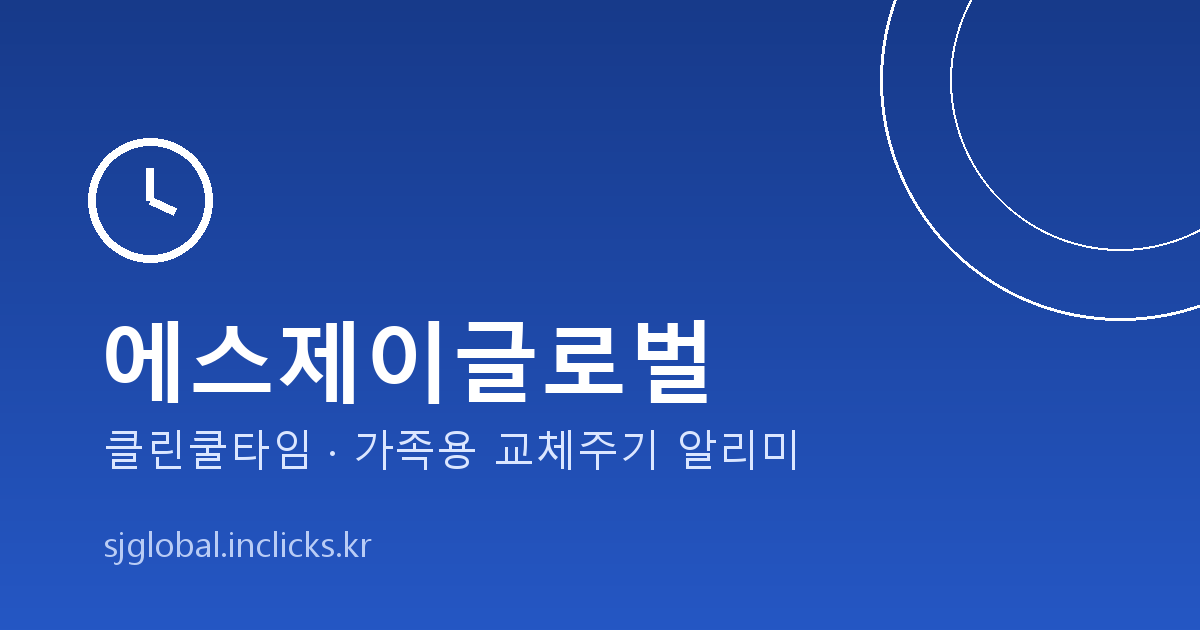
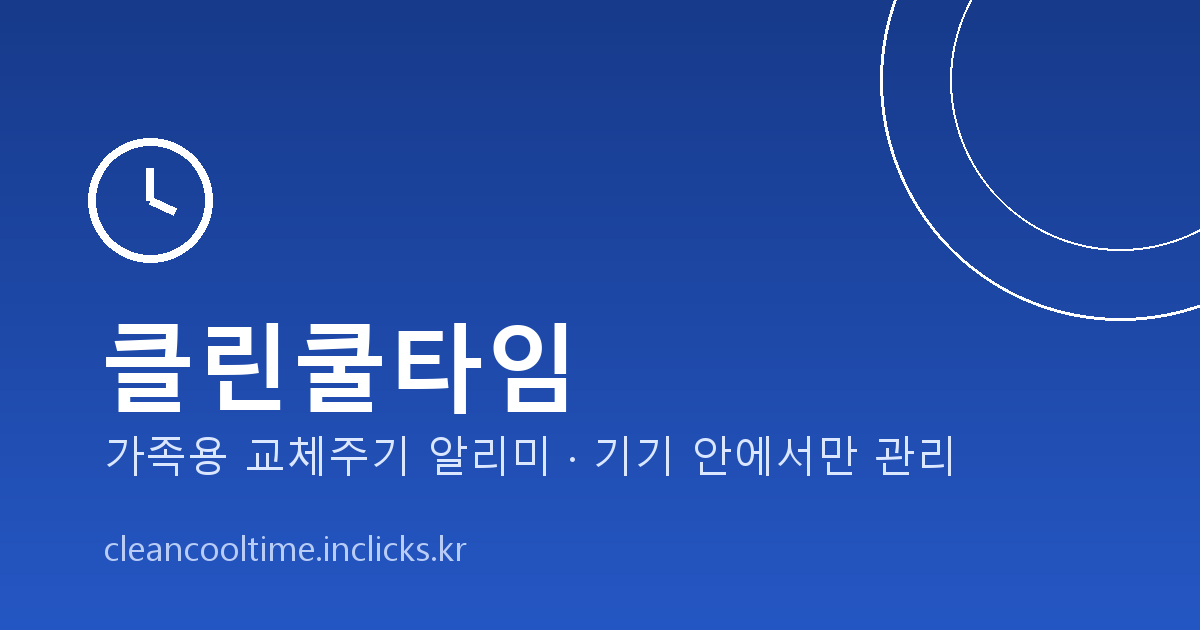
브랜드를 클린쿨타임으로 통일 + 도메인 cleancooltime.inclicks.kr
- 사이트 전반의 에스제이글로벌 브랜드 제거(개인 개발자 게시라 회사 브랜드 불필요)
- 개발자=개인 개발자 송승재로 표기 일원화(헤더/푸터/개발자 카드/처리방침 §11)
- 도메인 sjglobal.inclicks.kr -> cleancooltime.inclicks.kr (CNAME, 모든 절대 URL, sitemap, robots, README)
- OG 공유 이미지 클린쿨타임 + 새 도메인으로 재생성
- 처리방침 §11에 1인 운영 회신 약속 1줄 추가(보호책임자 연락처 보완)

Changed region(s): [[0.0617, 0.5127, 0.8017, 0.754], [0.0925, 0.8444, 0.4008, 0.9048]]

diff --git a/index.html b/index.html
@@ -3,19 +3,19 @@
 <head>
 <meta charset="UTF-8" />
 <meta name="viewport" content="width=device-width, initial-scale=1.0, viewport-fit=cover" />
-<title>에스제이글로벌 · 클린쿨타임</title>
-<meta name="description" content="에스제이글로벌은 일상의 작은 불편을 덜어주는 생활 편의 앱을 만듭니다. 첫 앱 클린쿨타임은 칫솔·수건·필터 등 교체주기를 기기 안에서만 관리하는 가정용 유틸리티 앱입니다." />
-<link rel="canonical" href="https://sjglobal.inclicks.kr/index.html" />
-<link rel="icon" href="https://sjglobal.inclicks.kr/favicon.ico" sizes="any" />
-<link rel="icon" type="image/png" href="https://sjglobal.inclicks.kr/icons/icon-192.png" />
-<link rel="apple-touch-icon" href="https://sjglobal.inclicks.kr/icons/icon-192.png" />
+<title>클린쿨타임</title>
+<meta name="description" content="클린쿨타임은 칫솔·수건·필터 등 교체주기가 있는 생활용품을 기기 안에서만 관리하는 가정용 유틸리티 앱입니다. 1인 개발자가 만든 무료 앱으로, 이용자가 입력한 정보를 외부로 보내지 않습니다." />
+<link rel="canonical" href="https://cleancooltime.inclicks.kr/index.html" />
+<link rel="icon" href="https://cleancooltime.inclicks.kr/favicon.ico" sizes="any" />
+<link rel="icon" type="image/png" href="https://cleancooltime.inclicks.kr/icons/icon-192.png" />
+<link rel="apple-touch-icon" href="https://cleancooltime.inclicks.kr/icons/icon-192.png" />
 <meta name="theme-color" media="(prefers-color-scheme: light)" content="#f4f6f9" />
 <meta name="theme-color" media="(prefers-color-scheme: dark)" content="#14161b" />
-<meta property="og:title" content="에스제이글로벌 · 클린쿨타임" />
+<meta property="og:title" content="클린쿨타임" />
 <meta property="og:description" content="꼭 필요한 일을, 사용자 입장에서, 정직하게. 클린쿨타임은 이용자가 입력한 데이터를 기기 안에만 저장합니다." />
 <meta property="og:type" content="website" />
-<meta property="og:url" content="https://sjglobal.inclicks.kr/index.html" />
-<meta property="og:image" content="https://sjglobal.inclicks.kr/og-image.png" />
+<meta property="og:url" content="https://cleancooltime.inclicks.kr/index.html" />
+<meta property="og:image" content="https://cleancooltime.inclicks.kr/og-image.png" />
 <meta property="og:image:width" content="1200" />
 <meta property="og:image:height" content="630" />
 <meta name="twitter:card" content="summary_large_image" />
@@ -154,9 +154,9 @@
 
 <header class="site">
   <div class="wrap navbar">
-    <a class="brand" href="#top" aria-label="에스제이글로벌 홈">
+    <a class="brand" href="#top" aria-label="클린쿨타임 홈">
       <span class="dot" aria-hidden="true"></span>
-      에스제이글로벌
+      클린쿨타임
     </a>
     <nav class="anchors" aria-label="페이지 내비게이션">
       <a href="#top">소개</a>
@@ -171,7 +171,7 @@
 
   <section class="hero" aria-label="소개">
     <div class="wrap">
-      <p class="eyebrow">에스제이글로벌</p>
+      <p class="eyebrow">클린쿨타임</p>
       <h1>일상의 작은 불편을<br />정직하게 덜어드립니다</h1>
       <p class="lead">화려한 기능보다 “꼭 필요한 일을, 사용자 입장에서, 정직하게” 해내는 것을 더 중요하게 생각하는 생활 편의 앱 제작자입니다.</p>
       <div class="cta-row">
@@ -184,15 +184,15 @@
   <section id="company">
     <div class="wrap">
       <span class="section-tag">개발자 소개</span>
-      <h2>에스제이글로벌</h2>
-      <p class="muted">에스제이글로벌은 일상의 작은 불편을 덜어주는 생활 편의 앱을 만드는 개인 개발자입니다. 우리는 화려한 기능보다 “꼭 필요한 일을, 사용자 입장에서, 정직하게” 해내는 것을 더 중요하게 생각합니다.</p>
+      <h2>클린쿨타임을 만드는 사람</h2>
+      <p class="muted">클린쿨타임은 1인 개발자가 만든 생활 편의 앱입니다. 화려한 기능보다 “꼭 필요한 일을, 사용자 입장에서, 정직하게” 해내는 것을 더 중요하게 생각하며 만들었습니다.</p>
 
-      <h3>우리가 추구하는 가치</h3>
+      <h3>개발하며 지키는 원칙</h3>
       <div class="values">
         <div class="value-card">
           <span class="num" aria-hidden="true">1</span>
           <h4>사용자 데이터 존중</h4>
-          <p>꼭 필요한 정보만 다루고, 가능하면 사용자의 기기 안에만 머무르도록 설계합니다. 첫 앱 ‘클린쿨타임’은 이용자가 입력한 정보를 외부 서버에 저장하지 않고 오직 사용자 기기 안에만 보관합니다.</p>
+          <p>꼭 필요한 정보만 다루고, 가능하면 사용자의 기기 안에만 머무르도록 설계합니다. ‘클린쿨타임’은 이용자가 입력한 정보를 외부 서버에 저장하지 않고 오직 사용자 기기 안에만 보관합니다.</p>
         </div>
         <div class="value-card">
           <span class="num" aria-hidden="true">2</span>
@@ -209,10 +209,10 @@
       <h3>개발자 정보</h3>
       <div class="info-card">
         <dl>
-          <dt>개발자</dt><dd>에스제이글로벌</dd>
-          <dt>운영자</dt><dd>송승재 (개인 개발자)</dd>
+          <dt>개발자</dt><dd>송승재 (개인 개발자)</dd>
+          <dt>앱</dt><dd>클린쿨타임</dd>
           <dt>문의 이메일</dt><dd><a href="mailto:[email redacted]">[email redacted]</a></dd>
-          <dt>홈페이지</dt><dd><a href="https://sjglobal.inclicks.kr">sjglobal.inclicks.kr</a></dd>
+          <dt>홈페이지</dt><dd><a href="https://cleancooltime.inclicks.kr">cleancooltime.inclicks.kr</a></dd>
         </dl>
       </div>
     </div>
@@ -220,7 +220,7 @@
 
   <section id="app">
     <div class="wrap">
-      <span class="section-tag">우리의 첫 앱</span>
+      <span class="section-tag">앱 소개</span>
       <div class="app-hero">
         <div class="app-badge" aria-hidden="true">
           <svg viewBox="0 0 24 24" fill="none" stroke="#fff" stroke-width="2" stroke-linecap="round" stroke-linejoin="round"><circle cx="12" cy="12" r="9"/><path d="M12 7v5l3 2"/></svg>
@@ -266,17 +266,17 @@
       <div class="priv-summary">
         <ul>
           <li>이용자가 입력한 정보는 <strong>오직 이용자 기기 안의 로컬 저장소(IndexedDB)에만</strong> 저장되며, 외부 서버로 전송·수집하지 않습니다.</li>
-          <li><strong>회원가입·로그인이 없고</strong>, 개발자(에스제이글로벌)나 제3자에게 전달되는 입력 정보가 없습니다.</li>
+          <li><strong>회원가입·로그인이 없고</strong>, 개발자나 제3자에게 전달되는 입력 정보가 없습니다.</li>
           <li><span lang="en">Google Analytics</span> 등 분석 도구, 광고 식별자·광고 SDK·추적 기능을 <strong>사용하지 않습니다.</strong></li>
           <li>알림은 모두 기기 안에서 로컬로 예약·발송되며 서버 푸시를 쓰지 않습니다. 글꼴·라이브러리가 앱에 모두 포함되어 있어 앱이 자동으로 외부 서버에 접속하지 않으며, 외부 통신은 이용자가 ‘장보기’의 쿠팡 링크를 직접 누를 때에만 일어납니다.</li>
           <li>‘장보기’의 쿠팡 링크는 사용자가 직접 누를 때 쿠팡으로 이동하는 제휴 추적 링크이며(쿠팡 파트너스 제휴), 앱이 개인정보를 쿠팡에 능동적으로 전송하지 않습니다.</li>
           <li>‘전체 초기화’ 또는 앱 삭제로 데이터를 영구 삭제할 수 있고, JSON으로 백업·복원할 수 있습니다.</li>
           <li>특정 연령층, 특히 아동을 대상으로 하지 않는 일반 가정용 앱입니다.</li>
         </ul>
-        <p class="summary-note">※ 본 요약은 안내용이며, 효력은 개인정보처리방침 <strong>전문</strong>이 우선합니다. Google Play에 등록된 처리방침 URL은 전문 페이지(<span lang="en">https://sjglobal.inclicks.kr/privacy.html</span>)입니다.</p>
+        <p class="summary-note">※ 본 요약은 안내용이며, 효력은 개인정보처리방침 <strong>전문</strong>이 우선합니다. Google Play에 등록된 처리방침 URL은 전문 페이지(<span lang="en">https://cleancooltime.inclicks.kr/privacy.html</span>)입니다.</p>
       </div>
       <div class="link-row">
-        <a class="btn btn-primary" href="https://sjglobal.inclicks.kr/privacy.html">개인정보처리방침 전문 보기</a>
+        <a class="btn btn-primary" href="https://cleancooltime.inclicks.kr/privacy.html">개인정보처리방침 전문 보기</a>
       </div>
     </div>
   </section>
@@ -285,12 +285,12 @@
 
 <footer class="site">
   <div class="wrap">
-    <div class="fbrand">에스제이글로벌</div>
+    <div class="fbrand">클린쿨타임</div>
     <p class="fmeta">일상의 작은 불편을 덜어주는 생활 편의 앱</p>
     <p class="fmeta">문의: <a href="mailto:[email redacted]">[email redacted]</a></p>
-    <p class="fmeta">홈페이지: <a href="https://sjglobal.inclicks.kr">https://sjglobal.inclicks.kr</a></p>
-    <p class="fmeta"><a href="https://sjglobal.inclicks.kr/privacy.html">개인정보처리방침</a></p>
-    <p class="copyright"><span lang="en">© 2026 SJGLOBAL.</span> 에스제이글로벌. <span lang="en">All rights reserved.</span></p>
+    <p class="fmeta">홈페이지: <a href="https://cleancooltime.inclicks.kr">https://cleancooltime.inclicks.kr</a></p>
+    <p class="fmeta"><a href="https://cleancooltime.inclicks.kr/privacy.html">개인정보처리방침</a></p>
+    <p class="copyright"><span lang="en">© 2026 Clean Cooltime. All rights reserved.</span></p>
   </div>
 </footer>
 

diff --git a/privacy.html b/privacy.html
@@ -3,20 +3,20 @@
 <head>
 <meta charset="UTF-8" />
 <meta name="viewport" content="width=device-width, initial-scale=1.0, viewport-fit=cover" />
-<title>클린쿨타임 개인정보처리방침 · 에스제이글로벌</title>
+<title>클린쿨타임 개인정보처리방침</title>
 <meta name="description" content="클린쿨타임(Clean Cooltime) 개인정보처리방침. 본 앱은 이용자가 입력한 정보를 오직 기기 안에만 저장하며 외부 서버로 전송·수집하지 않습니다. 시행일 2026년 6월 12일." />
 <meta name="robots" content="index,follow" />
-<link rel="canonical" href="https://sjglobal.inclicks.kr/privacy.html" />
-<link rel="icon" href="https://sjglobal.inclicks.kr/favicon.ico" sizes="any" />
-<link rel="icon" type="image/png" href="https://sjglobal.inclicks.kr/icons/icon-192.png" />
-<link rel="apple-touch-icon" href="https://sjglobal.inclicks.kr/icons/icon-192.png" />
+<link rel="canonical" href="https://cleancooltime.inclicks.kr/privacy.html" />
+<link rel="icon" href="https://cleancooltime.inclicks.kr/favicon.ico" sizes="any" />
+<link rel="icon" type="image/png" href="https://cleancooltime.inclicks.kr/icons/icon-192.png" />
+<link rel="apple-touch-icon" href="https://cleancooltime.inclicks.kr/icons/icon-192.png" />
 <meta name="theme-color" media="(prefers-color-scheme: light)" content="#f4f6f9" />
 <meta name="theme-color" media="(prefers-color-scheme: dark)" content="#14161b" />
 <meta property="og:title" content="클린쿨타임 개인정보처리방침" />
 <meta property="og:description" content="본 앱은 이용자가 입력한 정보를 오직 기기 안에만 저장하며 외부 서버로 전송·수집하지 않습니다. 시행일 2026년 6월 12일." />
 <meta property="og:type" content="article" />
-<meta property="og:url" content="https://sjglobal.inclicks.kr/privacy.html" />
-<meta property="og:image" content="https://sjglobal.inclicks.kr/og-image.png" />
+<meta property="og:url" content="https://cleancooltime.inclicks.kr/privacy.html" />
+<meta property="og:image" content="https://cleancooltime.inclicks.kr/og-image.png" />
 <meta property="og:image:width" content="1200" />
 <meta property="og:image:height" content="630" />
 <meta name="twitter:card" content="summary_large_image" />
@@ -135,13 +135,13 @@
 
 <header class="site">
   <div class="wrap navbar">
-    <a class="brand" href="https://sjglobal.inclicks.kr/index.html" aria-label="에스제이글로벌 홈">
+    <a class="brand" href="https://cleancooltime.inclicks.kr/index.html" aria-label="클린쿨타임 홈">
       <span class="dot" aria-hidden="true"></span>
-      에스제이글로벌
+      클린쿨타임
     </a>
     <nav class="anchors" aria-label="페이지 내비게이션">
-      <a href="https://sjglobal.inclicks.kr/index.html">홈</a>
-      <a href="https://sjglobal.inclicks.kr/index.html#app">클린쿨타임</a>
+      <a href="https://cleancooltime.inclicks.kr/index.html">홈</a>
+      <a href="https://cleancooltime.inclicks.kr/index.html#app">클린쿨타임</a>
       <a href="#toc">조항</a>
     </nav>
   </div>
@@ -155,7 +155,7 @@
       <div class="meta-pills">
         <span class="pill">시행일 <strong>2026년 6월 12일</strong></span>
         <span class="pill">최종 수정일 <strong>2026년 6월 12일</strong></span>
-        <span class="pill">운영 에스제이글로벌</span>
+        <span class="pill">개인 개발자 송승재</span>
       </div>
     </div>
   </div>
@@ -166,12 +166,12 @@
       <p><strong>가장 중요한 한 가지.</strong> 본 앱은 이용자가 입력한 정보를 오직 이용자의 기기 안에만 저장하며, 외부 서버로 전송하거나 수집하지 않습니다. 회원가입과 로그인이 없고, 개발자나 제3자에게 전달되는 입력 정보도 없습니다.</p>
     </div>
 
-    <p class="muted">본 문서는 클린쿨타임(영문: <span lang="en">Clean Cooltime</span>, 이하 ‘본 앱’)의 개인정보처리방침입니다. 본 처리방침 전문의 공식 공개 주소는 <a href="https://sjglobal.inclicks.kr/privacy.html">https://sjglobal.inclicks.kr/privacy.html</a> 이며, Google Play에 등록하는 개인정보처리방침 URL도 이 주소와 일치시킵니다. 에스제이글로벌(개인 개발자, 이하 ‘개발자’)은 본 앱 이용자의 개인정보를 소중히 여기며, 어떤 정보가 어떻게 다뤄지는지 이용자가 쉽게 이해할 수 있도록 이 방침을 마련했습니다.</p>
+    <p class="muted">본 문서는 클린쿨타임(영문: <span lang="en">Clean Cooltime</span>, 이하 ‘본 앱’)의 개인정보처리방침입니다. 본 처리방침 전문의 공식 공개 주소는 <a href="https://cleancooltime.inclicks.kr/privacy.html">https://cleancooltime.inclicks.kr/privacy.html</a> 이며, Google Play에 등록하는 개인정보처리방침 URL도 이 주소와 일치시킵니다. 본 앱의 개발자(개인 개발자 송승재, 이하 ‘개발자’)는 본 앱 이용자의 개인정보를 소중히 여기며, 어떤 정보가 어떻게 다뤄지는지 이용자가 쉽게 이해할 수 있도록 이 방침을 마련했습니다.</p>
     <ul class="muted lead-list">
       <li>앱 이름: 클린쿨타임 (<span lang="en">Clean Cooltime</span>)</li>
-      <li>운영 및 개발: 에스제이글로벌 (개인 개발자, 운영자 송승재)</li>
+      <li>개발: 송승재 (개인 개발자)</li>
       <li>요금: 무료 (인앱결제 없음, 광고 SDK 없음)</li>
-      <li>처리방침 공식 주소: <a href="https://sjglobal.inclicks.kr/privacy.html">https://sjglobal.inclicks.kr/privacy.html</a></li>
+      <li>처리방침 공식 주소: <a href="https://cleancooltime.inclicks.kr/privacy.html">https://cleancooltime.inclicks.kr/privacy.html</a></li>
       <li>시행일: 2026년 6월 12일</li>
     </ul>
 
@@ -216,7 +216,7 @@
         </ul>
         <p class="sub">저장 위치</p>
         <p>위 정보는 모두 이용자 기기 내부의 로컬 저장소(IndexedDB)에만 저장됩니다. 데이터는 기기 안에만 보관되며, 별도의 외부 서버나 클라우드에 저장되지 않습니다. 현재 버전에서는 클라우드 동기화 기능도 제공하지 않습니다.</p>
-        <p><strong>중요.</strong> 위 정보는 이용자의 기기를 벗어나지 않습니다. 즉 개발자(에스제이글로벌)나 제3자가 이 정보를 보거나 가져갈 수 없습니다.</p>
+        <p><strong>중요.</strong> 위 정보는 이용자의 기기를 벗어나지 않습니다. 즉 개발자나 제3자가 이 정보를 보거나 가져갈 수 없습니다.</p>
       </section>
 
       <section class="clause" id="c3">
@@ -234,7 +234,7 @@
         <h2><span class="idx">4.</span> 이용자 입력 정보의 외부 전송·수집 없음</h2>
         <p>이용자가 본 앱에 직접 입력한 개인정보는 외부로 전송되거나 수집되지 않습니다. 구체적으로 다음과 같습니다.</p>
         <ul>
-          <li>개발자(에스제이글로벌)에게 전송되어 수집되는 입력 정보가 없습니다.</li>
+          <li>개발자에게 전송되어 수집되는 입력 정보가 없습니다.</li>
           <li>제3자에게 전송되어 수집되는 입력 정보가 없습니다.</li>
           <li><span lang="en">Google Analytics</span> 등 분석 도구를 사용하지 않습니다.</li>
           <li>현재 광고 식별자(<span lang="en">AAID</span> 등)를 수집하거나 사용하지 않으며, 광고 SDK나 추적 기능이 없습니다.</li>
@@ -302,11 +302,13 @@
         <p>개인정보 처리와 관련한 문의, 의견은 아래 연락처로 보내 주시면 됩니다. 아래 이메일은 본 앱의 공식 문의 채널입니다.</p>
         <div class="contact-card">
           <dl>
-            <dt>개발자</dt><dd>에스제이글로벌 (개인 개발자)</dd>
+            <dt>앱</dt><dd>클린쿨타임</dd>
+            <dt>개발자(개인)</dt><dd>송승재</dd>
             <dt>개인정보 보호책임자</dt><dd>송승재</dd>
             <dt>문의 이메일</dt><dd><a href="mailto:[email redacted]">[email redacted]</a></dd>
           </dl>
         </div>
+        <p class="note">※ 본 앱은 1인 개발자가 운영하여 별도의 전화 상담 창구를 두지 않으며, 위 이메일이 공식·유일 문의 채널입니다. 접수된 문의에는 통상 7일(영업일 기준) 이내에 회신해 드립니다.</p>
       </section>
 
       <section class="clause" id="c12">
@@ -335,24 +337,24 @@
       <section class="clause" id="c14">
         <h2><span class="idx">14.</span> 고지 의무 (시행일 및 변경 시 공지)</h2>
         <p>본 개인정보처리방침의 시행일은 <strong>2026년 6월 12일</strong>이며, 같은 날을 최종 수정일로 합니다.</p>
-        <p>법령이나 앱 기능의 변경 등으로 본 방침의 내용이 바뀌는 경우, 변경 사항과 개정일을 본 방침이 게시된 공개 페이지(<a href="https://sjglobal.inclicks.kr/privacy.html">https://sjglobal.inclicks.kr/privacy.html</a>)에 게시하여 안내하며, 게시 시점부터 효력이 발생합니다. 중요한 변경이 있을 때에는 이용자가 알아보기 쉽도록 변경 내용을 함께 게시합니다.</p>
+        <p>법령이나 앱 기능의 변경 등으로 본 방침의 내용이 바뀌는 경우, 변경 사항과 개정일을 본 방침이 게시된 공개 페이지(<a href="https://cleancooltime.inclicks.kr/privacy.html">https://cleancooltime.inclicks.kr/privacy.html</a>)에 게시하여 안내하며, 게시 시점부터 효력이 발생합니다. 중요한 변경이 있을 때에는 이용자가 알아보기 쉽도록 변경 내용을 함께 게시합니다.</p>
         <p>현재 본 앱에는 광고가 없습니다. 향후 광고가 도입되는 경우, 광고 제공에 필요한 정보(예: 광고 식별자) 처리 내용을 반영하여 본 방침을 개정하고, 개정 사항을 본 페이지에 사전 고지하며, 같은 시점에 Google Play 데이터 보안(Data safety) 정보도 실제 처리 내용에 맞게 갱신합니다.</p>
       </section>
 
     </article>
 
-    <a class="backlink" href="https://sjglobal.inclicks.kr/index.html">← 에스제이글로벌 홈으로</a>
+    <a class="backlink" href="https://cleancooltime.inclicks.kr/index.html">← 클린쿨타임 홈으로</a>
   </div>
 </main>
 
 <footer class="site">
   <div class="wrap">
-    <div class="fbrand">에스제이글로벌</div>
+    <div class="fbrand">클린쿨타임</div>
     <p class="fmeta">일상의 작은 불편을 덜어주는 생활 편의 앱</p>
     <p class="fmeta">문의: <a href="mailto:[email redacted]">[email redacted]</a></p>
-    <p class="fmeta">홈페이지: <a href="https://sjglobal.inclicks.kr">https://sjglobal.inclicks.kr</a></p>
+    <p class="fmeta">홈페이지: <a href="https://cleancooltime.inclicks.kr">https://cleancooltime.inclicks.kr</a></p>
     <p class="fmeta">개인정보처리방침 시행일 2026년 6월 12일</p>
-    <p class="copyright"><span lang="en">© 2026 SJGLOBAL.</span> 에스제이글로벌. <span lang="en">All rights reserved.</span></p>
+    <p class="copyright"><span lang="en">© 2026 Clean Cooltime. All rights reserved.</span></p>
   </div>
 </footer>
 

diff --git a/README.md b/README.md
@@ -1,20 +1,20 @@
-# sjglobal.inclicks.kr
+# cleancooltime.inclicks.kr
 
-에스제이글로벌 공식 사이트 (회사 소개 · 클린쿨타임 앱 소개 · 개인정보처리방침).
+클린쿨타임 공식 사이트 (앱 소개 · 개인정보처리방침). 개인 개발자(송승재)가 운영합니다.
 GitHub Pages로 호스팅되는 정적 사이트입니다.
 
 ## 구성
 
-- `index.html` : 회사 소개 + 앱 소개 + 개인정보처리방침 요약
+- `index.html` : 앱 소개 + 개발자 소개 + 개인정보처리방침 요약
 - `privacy.html` : 개인정보처리방침 전문 (Google Play 제출용 URL)
-- `CNAME` : 커스텀 도메인 설정 (`sjglobal.inclicks.kr`)
+- `CNAME` : 커스텀 도메인 설정 (`cleancooltime.inclicks.kr`)
 - `og-image.png`, `icons/icon-192.png`, `favicon.ico` : 공유 카드 및 아이콘
 - `robots.txt`, `sitemap.xml` : 검색엔진 안내
 
 ## Google Play 제출용 개인정보처리방침 URL
 
 ```
-https://sjglobal.inclicks.kr/privacy.html
+https://cleancooltime.inclicks.kr/privacy.html
 ```
 
 ## 도메인 연결 (DNS)
@@ -23,4 +23,4 @@ https://sjglobal.inclicks.kr/privacy.html
 
 | 유형 | 호스트 | 값 |
 | --- | --- | --- |
-| CNAME | `sjglobal` | `SJ-Song83.github.io` |
+| CNAME | `cleancooltime` | `SJ-Song83.github.io` |